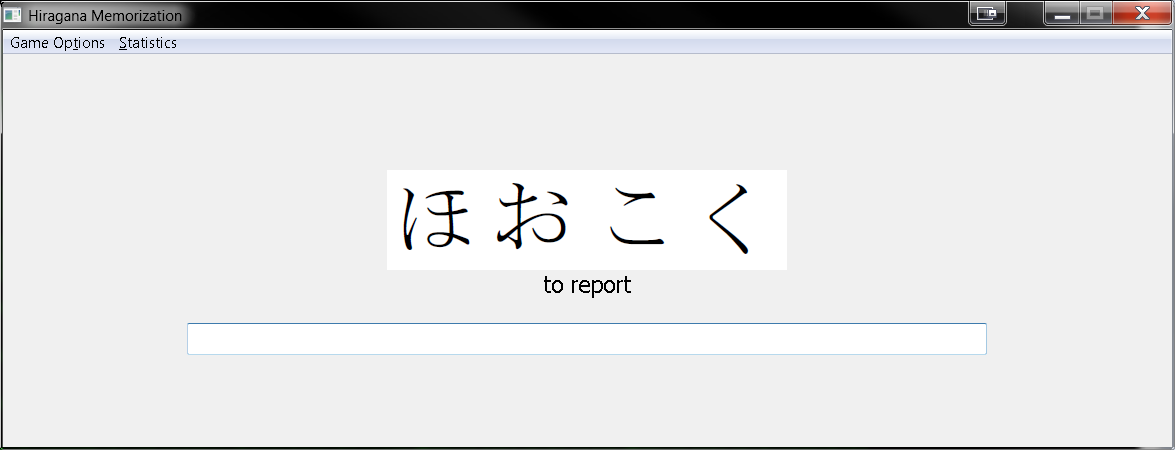
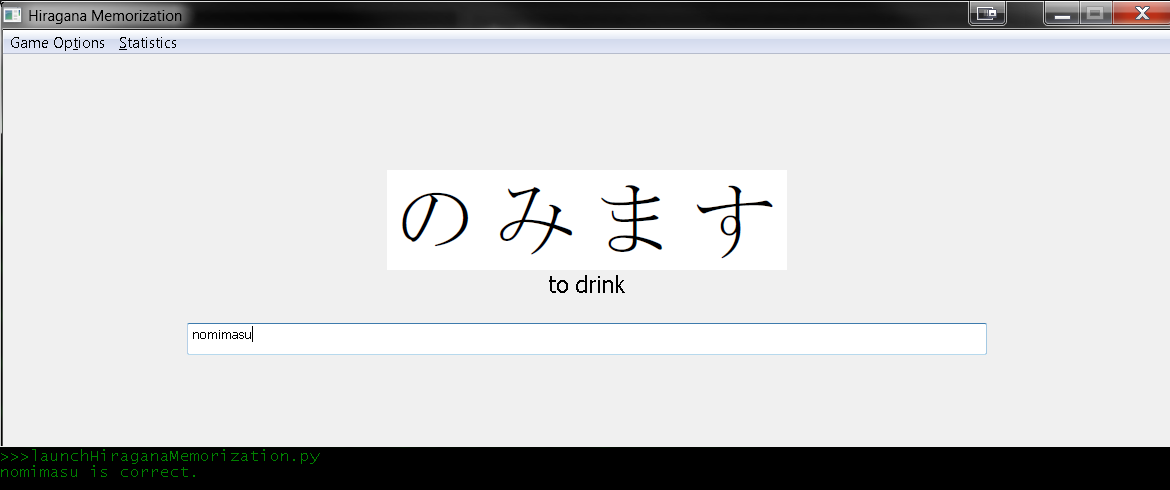
add "About" in README. Updated Screenshots to show user input.

Changed region(s): [[0.0, 0.0, 1.0, 1.0], [0.1538, 0.3733, 0.8308, 0.7467]]

diff --git a/README.md b/README.md
@@ -1,9 +1,15 @@
 hiraganaMemorization
 ================
 
+About
+-------
+Displays Hiragana characters together to form a word  
+User enters the romaji/pronunciation for the given characters  
+The objective is to help learn both Hiragana characters and some Japanese vocabulary  
+
 Requirements
 ----------------
-Windows, Linux, Mac requires wxPython:
+wxPython available for Windows, Mac, or Linux:
 http://www.wxpython.org/download.php
 
 Installation
@@ -16,9 +22,9 @@ Screenshots
 ![Screenshot 0](hiraganaMemorization/Screenshots/S0.png?raw=true "Screenshot 0")
 ![Screenshot 1](hiraganaMemorization/Screenshots/S1.png?raw=true "Screenshot 1")
 
-WIP:
+Work in progress:
 ------
 Move answer feedback from command line in to program  
 Scoring + statistics  
 More dictionaries and words  
-More native look on Windows platforms (use wx.Panel instead of wx.Frame)  
+Config to keep track of  user settings  
